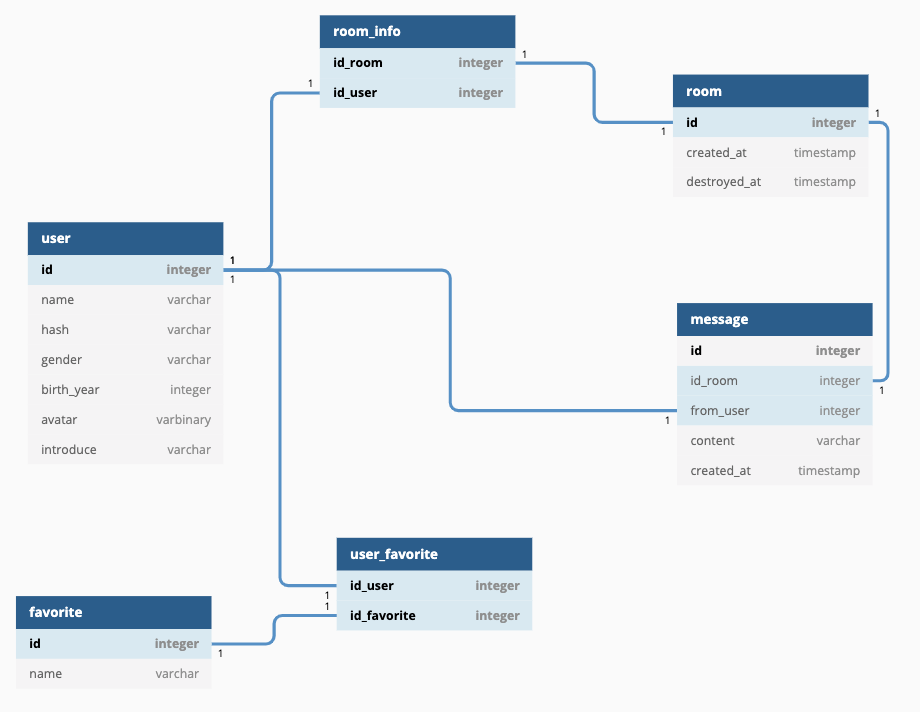
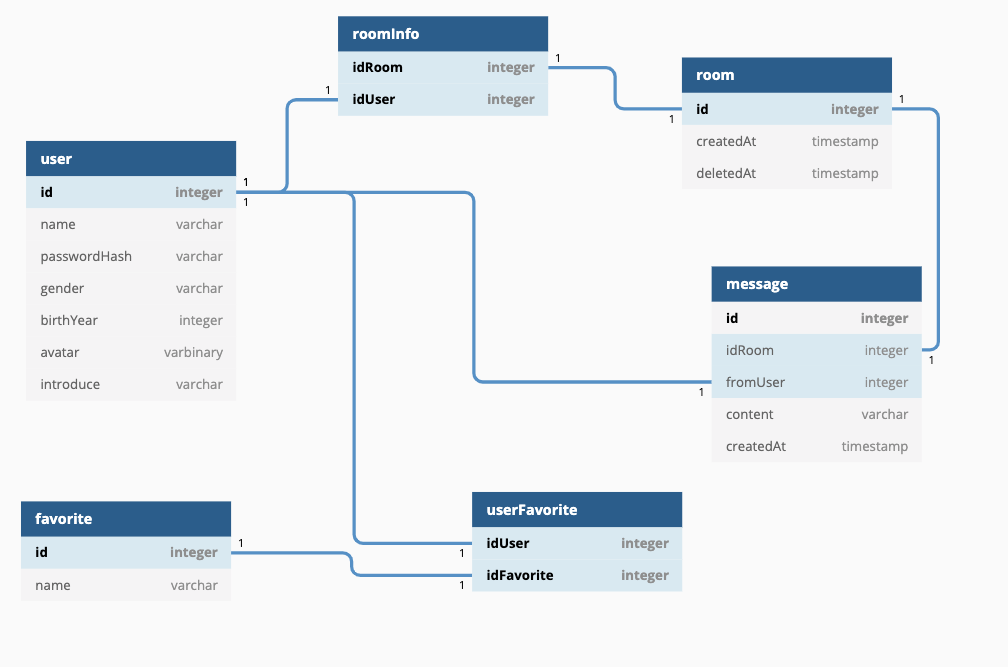
Add architecture, class diagram. Small fix to database diagram

diff --git a/diagram/class/class.md b/diagram/class/class.md
@@ -1,0 +1,62 @@
+# Class diagram
+
+```plantuml
+@startuml
+
+Room o-- Message
+Room o-- User
+
+class Room {
+    - createdAt
+    - deletedAt
+    - listUsers
+    - listMessages
+    + getCreatedAt()
+    + getDestroyedAt()
+    + join(User)
+    + leave(User)
+    + writeMessage(User, content)
+}
+
+class User {
+    - id
+    - name
+    - passwordHash
+    - gender
+    - birthYear
+    - avatarLink
+    - introduce
+    - listFavorites
+    + getId()
+    + getName()
+    + getPasswordHash()
+    + setPasswordHash()
+    + getGener()
+    + setGender()
+    + getBirthYear()
+    + setBirthYear()
+    + getAvatarLink()
+    + setAvatarLink()
+    + getIntroduce()
+    + setIntroduce()
+    + getFavorites()
+    + setFavorites()
+}
+
+class Message {
+    - fromUserId
+    - content
+    - createdAt
+    + getContent()
+    + getCreatedAt()
+    + getFromUserName()
+}
+
+class Match {
+    + matchByFavorite(User)
+    + matchByGender(User)
+    + matchByAge(User)
+}
+
+@enduml
+```

diff --git a/diagram/architecture/architecture.md b/diagram/architecture/architecture.md
@@ -1,0 +1,28 @@
+# Architecture diagram
+
+```plantuml
+@startuml
+
+
+[User] --> [Frontend]
+
+[Frontend] --> [API Gateway]
+
+package Service {
+    [API Gateway] --> [Auth service]
+
+    [API Gateway] --> [Random stranger service]
+
+    [API Gateway] --> [Chat service]
+}
+
+database Database {
+    [Auth service] --> [PostgreSQL]
+
+    [Random stranger service] --> [PostgreSQL]
+
+    [Chat service] --> [PostgreSQL]
+}
+
+@enduml
+```

diff --git a/timeline.md b/timeline.md
@@ -2,12 +2,12 @@
 
 Tuần 1:
 
-- [ ] Sơ đồ thiết kế
+- [x] Sơ đồ thiết kế
     - [x] Activity diagram
-    - [ ] Sequence diagram
-    - [ ] Database diagram
-    - [ ] Class diagram
-    - [ ] Architecture diagram
+    - [x] Sequence diagram
+    - [x] Database diagram
+    - [x] Class diagram
+    - [x] Architecture diagram
 - [ ] Tìm hiểu framework `gin`, `gorm`
 - [ ] Tìm hiểu CRUD database
 
